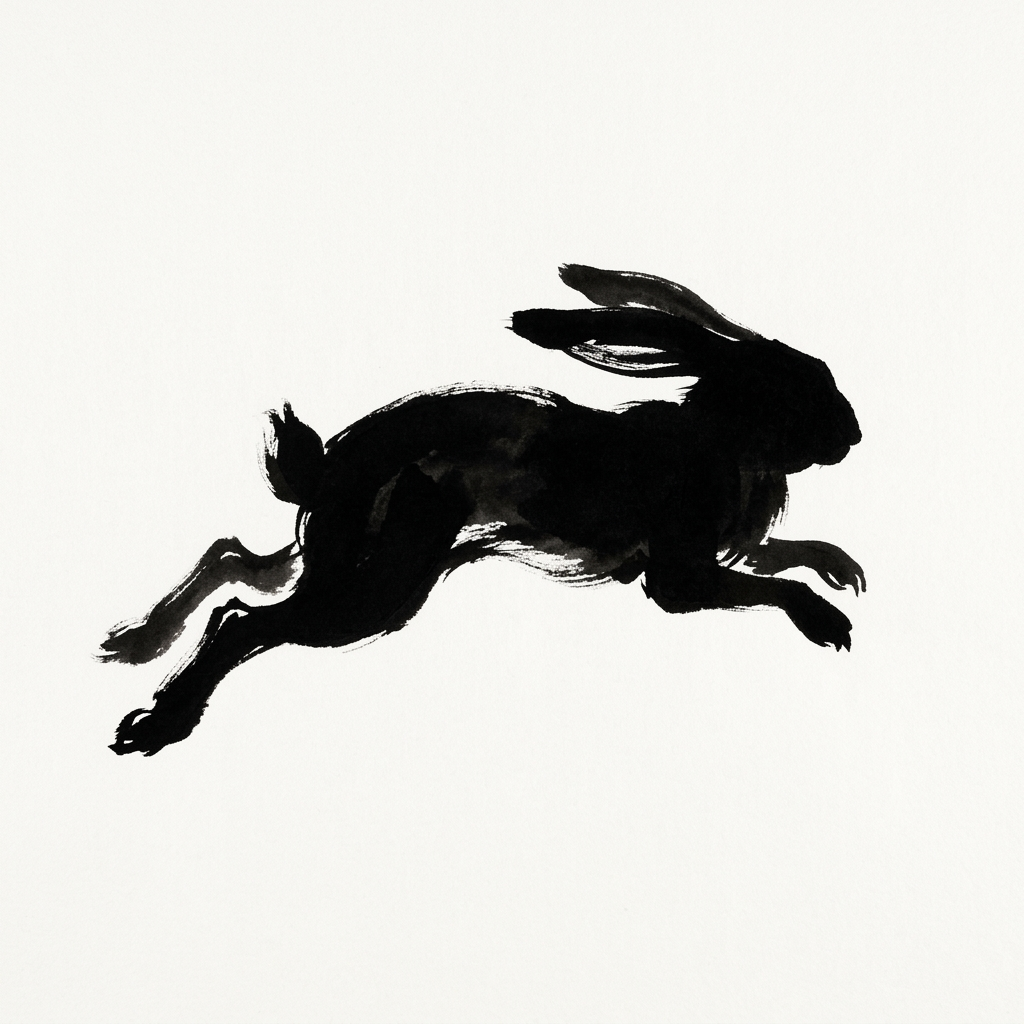
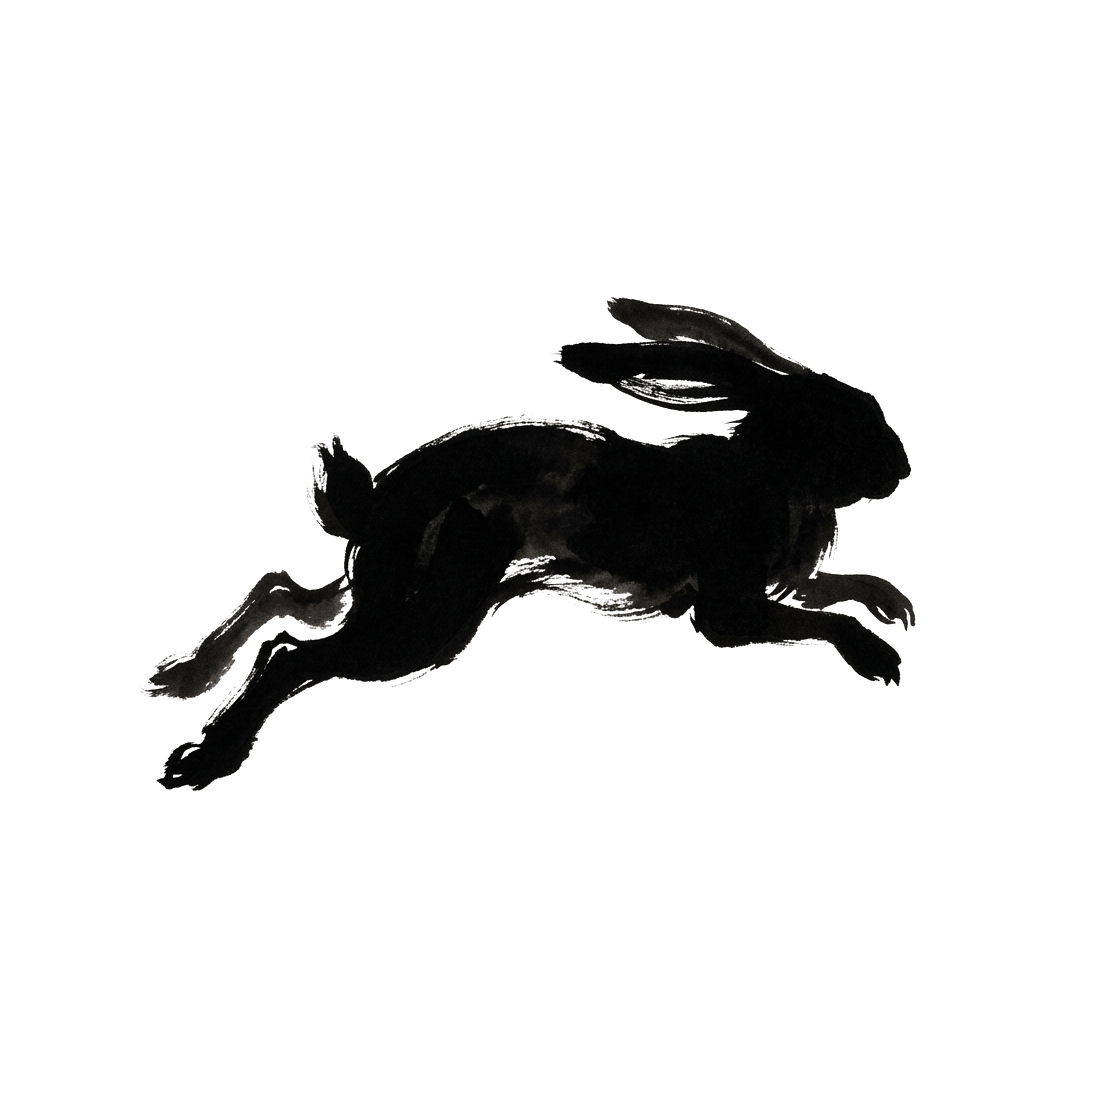
updated

diff --git a/README.md b/README.md
@@ -1,97 +1,108 @@
-# 🚀 hop — SSH Project Launcher & Directory Jumper
+<div align="center">
 
-<p align="center">
-  <img src="hop-rabbit.png" alt="hop logo" width="200" />
-</p>
+<img src="hop-rabbit.png" alt="hop logo" width="180" />
 
-`hop` adalah alat CLI (Command Line Interface) ringan yang dirancang untuk mempermudah manajemen dan peluncuran koneksi SSH serta perpindahan direktori (*directory jumping*) langsung setelah masuk ke server. Proyek ini dibangun menggunakan bahasa Go, tanpa dependensi eksternal yang berat, serta menggunakan aplikasi `ssh` bawaan sistem secara langsung (*shell out*).
+# 🐇 hop
 
-Alat ini sangat cocok sebagai pengganti cara manual mencari IP server di history terminal Anda (`history | grep <ip>`).
+**SSH Project Launcher & Directory Jumper**
+
+Lompat langsung ke server dan direktori project favorit Anda — tanpa `history | grep` lagi.
+
+[![Go Version](https://img.shields.io/badge/Go-1.20%2B-00ADD8?style=flat-square&logo=go&logoColor=white)](https://go.dev)
+[![License: MIT](https://img.shields.io/badge/License-MIT-yellow.svg?style=flat-square)](LICENSE)
+[![Platform](https://img.shields.io/badge/platform-Linux%20%7C%20macOS%20%7C%20Windows-lightgrey?style=flat-square)]()
+[![Build](https://img.shields.io/badge/build-single%20binary-success?style=flat-square)]()
+
+</div>
+
+---
+
+`hop` adalah CLI ringan berbasis Go untuk mempermudah koneksi SSH dan *directory jumping* — otomatis masuk ke direktori project yang tepat begitu Anda terhubung ke server. Tanpa dependensi eksternal yang berat, murni *shell out* ke binary `ssh` bawaan sistem Anda.
+
+> Dulu: `history | grep <ip>` → `!<no>` → `history | grep <project>` → `!<no>`
+> Sekarang: `hop <alias>` ✨
+
+## 📚 Daftar Isi
+
+- [Fitur Utama](#-fitur-utama)
+- [Instalasi](#-instalasi)
+- [Konfigurasi](#️-konfigurasi-configyaml)
+- [Penggunaan](#-penggunaan)
+- [Autocomplete](#️-autocomplete-tab-di-bash)
 
 ---
 
 ## ✨ Fitur Utama
 
-1. **Multi-Path per Host**: Satu host server dapat memiliki beberapa direktori proyek yang beralias tersendiri.
-2. **Auto Jumper**: Otomatis berpindah direktori (*cd*) ke path yang dituju saat berhasil terhubung melalui SSH.
-3. **Penyajian Data Informatif**: Layout tabel yang rapi untuk perintah `hop list` dan `hop path-list`.
-4. **Manajemen Interaktif**: Subcommand intuitif untuk menambah, mengubah, atau menghapus host dan path (`add`, `edit`, `remove`, `path-add`, `path-remove`).
-5. **Migrasi Otomatis (v1 → v2)**: Otomatis mendeteksi, mencadangkan, dan mengonversi file konfigurasi dari aplikasi pendahulu (`devjump`) ke skema data baru `hop` tanpa kehilangan data.
-6. **Autocompletion Pintar**: Dukungan *autocomplete* (menggunakan tombol `Tab`) untuk Bash yang mencakup perintah, alias host, hingga alias path.
+| Fitur | Deskripsi |
+|---|---|
+| 🗂️ **Multi-Path per Host** | Satu server bisa punya banyak direktori project, masing-masing dengan alias sendiri |
+| 🚀 **Auto Jumper** | Otomatis `cd` ke path tujuan begitu SSH berhasil terhubung |
+| 📋 **Tabel Rapi** | Output `hop list` & `hop path-list` mudah dibaca sekilas |
+| 🛠️ **Manajemen Interaktif** | `add`, `edit`, `remove`, `path-add`, `path-remove` — semua dipandu prompt |
+| 🔄 **Migrasi Otomatis** | Config lama otomatis dicadangkan & dikonversi ke skema terbaru |
+| ⌨️ **Autocomplete Pintar** | Tab-completion untuk command, alias host, dan alias path |
 
 ---
 
-## 💻 Panduan Instalasi
+## 💻 Instalasi
 
-### 🐧 1. Cara Instalasi di OS Linux / macOS
+<details open>
+<summary><b>🐧 Linux / macOS</b></summary>
 
-#### Prasyarat
-- Pastikan Go Compiler (minimal versi 1.20) sudah terinstal: `go version`
-- Pastikan biner `ssh` terinstal di sistem Anda.
+**Prasyarat:** Go 1.20+ (`go version`) dan binary `ssh` sudah terpasang.
 
-#### Langkah-langkah
-1. Clone repositori ini atau masuk ke direktori proyek `hop`.
-2. Lakukan kompilasi kode:
-   ```bash
-   go build -o hop .
-   ```
-3. Pindahkan biner hasil kompilasi ke folder biner lokal Anda (pastikan folder ini masuk ke dalam `$PATH` sistem Anda):
-   ```bash
-   cp hop ~/.local/bin/
-   # atau untuk seluruh pengguna di sistem (membutuhkan akses root):
-   sudo cp hop /usr/local/bin/
-   ```
-4. Verifikasi instalasi:
-   ```bash
-   hop help
-   ```
+```bash
+# 1. Compile
+go build -o hop .
 
----
+# 2. Pasang ke PATH
+cp hop ~/.local/bin/
+# atau untuk seluruh user di sistem:
+sudo cp hop /usr/local/bin/
 
-### 🪟 2. Cara Instalasi di OS Windows
+# 3. Verifikasi
+hop help
+```
 
-#### Prasyarat
-- Pastikan Go Compiler terinstal di Windows.
-- Pastikan fitur **OpenSSH Client** bawaan Windows sudah aktif (aktif secara bawaan di Windows 10/11).
-- Terminal yang digunakan direkomendasikan adalah **PowerShell** atau **Windows Terminal**.
+</details>
 
-#### Langkah-langkah
-1. Buka PowerShell atau Command Prompt, arahkan ke direktori proyek `hop`.
-2. Compile proyek:
-   ```powershell
-   go build -o hop.exe .
-   ```
-3. Buat folder khusus untuk menyimpan biner CLI jika belum ada (misal `C:\bin`) dan salin biner ke folder tersebut:
-   ```powershell
-   New-Item -ItemType Directory -Force -Path "C:\bin"
-   Copy-Item hop.exe -Destination "C:\bin\hop.exe"
-   ```
-4. Tambahkan folder tersebut ke Environment Variables Windows (`PATH`):
-   - Buka Start Menu, cari **"Edit the system environment variables"**.
-   - Klik **Environment Variables**.
-   - Di bagian *User variables* atau *System variables*, cari variabel **Path**, klik **Edit**, lalu tambahkan `C:\bin`.
-   - Simpan semua dialog.
-5. **Penting (Konfigurasi Direktori `HOME` di Windows)**:
-   Aplikasi `hop` mencari folder konfigurasi berdasarkan variabel lingkungan `HOME`. Secara *default*, Windows menggunakan `USERPROFILE` untuk direktori pengguna. Agar aplikasi berjalan dengan normal di Windows, tambahkan variabel lingkungan baru:
-   - Nama variabel: `HOME`
-   - Nilai variabel: `C:\Users\NamaUserAnda` (sesuaikan dengan folder user Anda).
-6. Buka terminal baru dan verifikasi:
-   ```powershell
-   hop.exe help
-   ```
+<details>
+<summary><b>🪟 Windows</b></summary>
+
+**Prasyarat:** Go compiler, OpenSSH Client aktif (default di Windows 10/11), PowerShell/Windows Terminal.
+
+```powershell
+# 1. Compile
+go build -o hop.exe .
+
+# 2. Pasang ke folder khusus
+New-Item -ItemType Directory -Force -Path "C:\bin"
+Copy-Item hop.exe -Destination "C:\bin\hop.exe"
+
+# 3. Tambahkan C:\bin ke Environment Variable PATH
+#    (Start Menu → "Edit the system environment variables")
+```
+
+> ⚠️ **Penting:** `hop` mencari config lewat variabel `HOME`, yang tidak selalu ada di Windows secara default. Tambahkan environment variable baru: `HOME` = `C:\Users\NamaUserAnda`.
+
+```powershell
+# 4. Verifikasi
+hop.exe help
+```
+
+</details>
 
 ---
 
-## 🛠️ Konfigurasi file (`config.yaml`)
+## 🛠️ Konfigurasi (`config.yaml`)
 
-File konfigurasi akan dibuat secara otomatis saat `hop` dijalankan pertama kali.
+Dibuat otomatis saat `hop` pertama kali dijalankan.
 
-* **Lokasi File (Linux/macOS)**: `~/.config/hop/config.yaml`
-* **Lokasi File (Windows)**: `%HOME%\.config\hop\config.yaml` (atau `C:\Users\NamaUser\.config\hop\config.yaml`)
-
-### Struktur Skema Konfigurasi (v2)
-
-Berikut adalah contoh isi file konfigurasi `config.yaml`:
+| OS | Lokasi |
+|---|---|
+| Linux/macOS | `~/.config/hop/config.yaml` |
+| Windows | `%HOME%\.config\hop\config.yaml` |
 
 ```yaml
 hosts:
@@ -106,115 +117,90 @@ hosts:
         path: /var/www/html/projek2
 ```
 
-### Penjelasan Field:
-- `alias`: Nama unik untuk memanggil host tersebut di CLI.
-- `host`: Alamat IP atau hostname domain server SSH.
-- `user`: Username yang digunakan untuk login SSH.
-- `port`: Port SSH (default: 22).
-- `paths`: Daftar direktori proyek di server terkait.
-  - `alias`: Nama singkat untuk direktori tersebut (dipakai saat pemanggilan).
-  - `path`: Direktori tujuan di server yang akan dituju otomatis setelah login.
+| Field | Keterangan |
+|---|---|
+| `alias` | Nama unik untuk memanggil host di CLI |
+| `host` | IP atau hostname server SSH |
+| `user` | Username login SSH |
+| `port` | Port SSH (default `22`) |
+| `paths[].alias` | Nama singkat direktori (dipakai saat connect) |
+| `paths[].path` | Path tujuan di server |
 
 ---
 
-## 📑 Panduan Penggunaan Perintah (Subcommands)
+## 📑 Penggunaan
 
-### 1. `hop list`
-Menampilkan ringkasan seluruh host yang terdaftar beserta konfigurasinya secara terstruktur.
-* **Perintah**:
-  ```bash
-  hop list
-  ```
-* **Contoh Output**:
-  ```
-  IP/HOST      ALIAS       USER   PORT   PATHS
-  -------      -----       ----   ----   -----
-  xx.xx.xx.xx  dev-projek  root   22     projek1, projek2
-  ```
+### Koneksi cepat
 
-### 2. Koneksi ke Host (`hop <host-alias> [path-alias]`)
-Menghubungkan terminal Anda ke server SSH tujuan dan masuk ke direktori proyek terkait.
-* **Koneksi dengan Path Utama (Default)**:
-  Jika Anda tidak menyertakan `path-alias`, sistem otomatis masuk ke path pertama yang terdaftar.
-  ```bash
-  hop dev-projek
-  ```
-* **Koneksi ke Path Spesifik**:
-  ```bash
-  hop dev-projek projek2
-  ```
-* **Penanganan Masalah**:
-  Jika host belum memiliki direktori terdaftar, sistem akan memblokir koneksi dengan pesan:
-  `Host 'dev-projek' belum memiliki path. Silakan tambahkan path terlebih dahulu.`
+```bash
+hop <host-alias>               # connect, otomatis masuk ke path pertama
+hop <host-alias> <path-alias>  # connect ke path spesifik
+```
 
-### 3. `hop add`
-Menambahkan host baru secara interaktif melalui CLI.
-* **Perintah**:
-  ```bash
-  hop add
-  ```
-* Anda akan dipandu untuk mengisi Alias host, Alamat Host, User, Port, dan minimal satu path beserta aliasnya.
+```bash
+hop dev-projek           # default path
+hop dev-projek projek2   # path spesifik
+```
 
-### 4. `hop edit <host-alias>`
-Mengubah detail informasi dari host yang sudah ada (seperti IP, port, atau user).
-* **Perintah**:
-  ```bash
-  hop edit dev-projek
-  ```
+Kalau alias tidak ditemukan, `hop` menampilkan daftar host/path yang valid — tidak perlu tebak-tebakan.
 
-### 5. `hop remove <host-alias>`
-Menghapus host beserta seluruh path di dalamnya dari daftar konfigurasi.
-* **Perintah**:
-  ```bash
-  hop remove dev-projek
-  ```
+### Manajemen host & path
 
-### 6. `hop path-list [<host-alias>]`
-Menampilkan detail path untuk seluruh host, atau spesifik untuk host yang ditentukan.
-* **Perintah**:
-  ```bash
-  hop path-list
-  ```
-* **Contoh Output**:
-  ```
-  IP/HOST      ALIAS         PATH                       PATH ALIAS
-  -------      -----         ----                       ----------
-  xx.xx.xx.xx  dev-projek    /var/www/html/projek1      projek1
-  xx.xx.xx.xx  dev-projek    /var/www/html/projek2      projek2
-  ```
+| Command | Fungsi |
+|---|---|
+| `hop list` | Lihat semua host terdaftar |
+| `hop add` | Tambah host baru (interaktif) |
+| `hop edit <host>` | Ubah detail host |
+| `hop remove <host>` | Hapus host |
+| `hop path-list [<host>]` | Lihat semua path (semua host / spesifik) |
+| `hop path-add <host>` | Tambah path baru ke host |
+| `hop path-remove <host> <path>` | Hapus path dari host |
 
-### 7. `hop path-add <host-alias>`
-Menambahkan alias direktori proyek baru ke host yang sudah ada.
-* **Perintah**:
-  ```bash
-  hop path-add dev-projek
-  ```
+<details>
+<summary>Contoh output <code>hop list</code></summary>
 
-### 8. `hop path-remove <host-alias> <path-alias>`
-Menghapus direktori proyek tertentu dari suatu host.
-* **Perintah**:
-  ```bash
-  hop path-remove dev-projek projek2
-  ```
+```
+IP/HOST      ALIAS       USER   PORT   PATHS
+-------      -----       ----   ----   -----
+xx.xx.xx.xx  dev-projek  root   22     projek1, projek2
+```
+
+</details>
+
+<details>
+<summary>Contoh output <code>hop path-list</code></summary>
+
+```
+IP/HOST      ALIAS         PATH                       PATH ALIAS
+-------      -----         ----                       ----------
+xx.xx.xx.xx  dev-projek    /var/www/html/projek1      projek1
+xx.xx.xx.xx  dev-projek    /var/www/html/projek2      projek2
+```
+
+</details>
 
 ---
 
-## ⌨️ Konfigurasi Autocomplete (Tombol TAB) di Bash
+## ⌨️ Autocomplete (Tab) di Bash
 
-Anda dapat mengaktifkan fitur pelengkapan otomatis (*autocompletion*) saat menekan tombol `Tab` di terminal Bash (Linux/macOS).
+Aktifkan sekali, pakai selamanya:
 
-### Cara Mengaktifkan secara Permanen
-Jalankan perintah berikut untuk menambahkan skrip pelengkap ke profil Bash Anda:
 ```bash
 hop completion bash >> ~/.bashrc
 source ~/.bashrc
 ```
 
-### Cara Kerja Autocomplete (TAB / Double-TAB):
-1. **Melengkapi Perintah & Host**: 
-   Ketik `hop ` lalu tekan `Tab 2x` untuk melihat daftar subcommand dan host alias yang tersedia.
-   *Contoh:* Ketik `hop dev-` lalu tekan `Tab` untuk langsung melengkapinya menjadi `hop dev-projek `.
-2. **Melengkapi Path Alias**:
-   Setelah host terisi (misalnya `hop dev-projek ` dengan spasi di akhir), tekan `Tab` kembali untuk memicu pelengkapan otomatis path alias milik host tersebut.
-3. **Catatan Perilaku Bawaan Bash**:
-   Jika seluruh pilihan path alias memiliki awalan kata yang sama (misalnya: `projek1` dan `projek2` yang sama-sama berawalan `projek`), menekan `Tab` akan langsung mengisi awalan terpanjang yang sama (`projek`). Anda hanya perlu melanjutkan mengetik lanjutannya (misal huruf **`2`** untuk `projek2`) lalu tekan `Tab` lagi untuk melengkapinya.
+**Cara pakai:**
+1. `hop <Tab><Tab>` → daftar semua command & host alias
+2. `hop dev-<Tab>` → otomatis lengkap jadi `hop dev-projek `
+3. `hop dev-projek <Tab>` → daftar path-alias milik host tersebut
+
+> 💡 Kalau beberapa alias berbagi awalan sama (`projek1`, `projek2`), Tab akan mengisi sebanyak yang unik (`projek`), lalu Anda lanjutkan ketik pembedanya.
+
+---
+
+<div align="center">
+
+Dibuat untuk mempercepat workflow development sehari-hari 🐇💨
+
+</div>